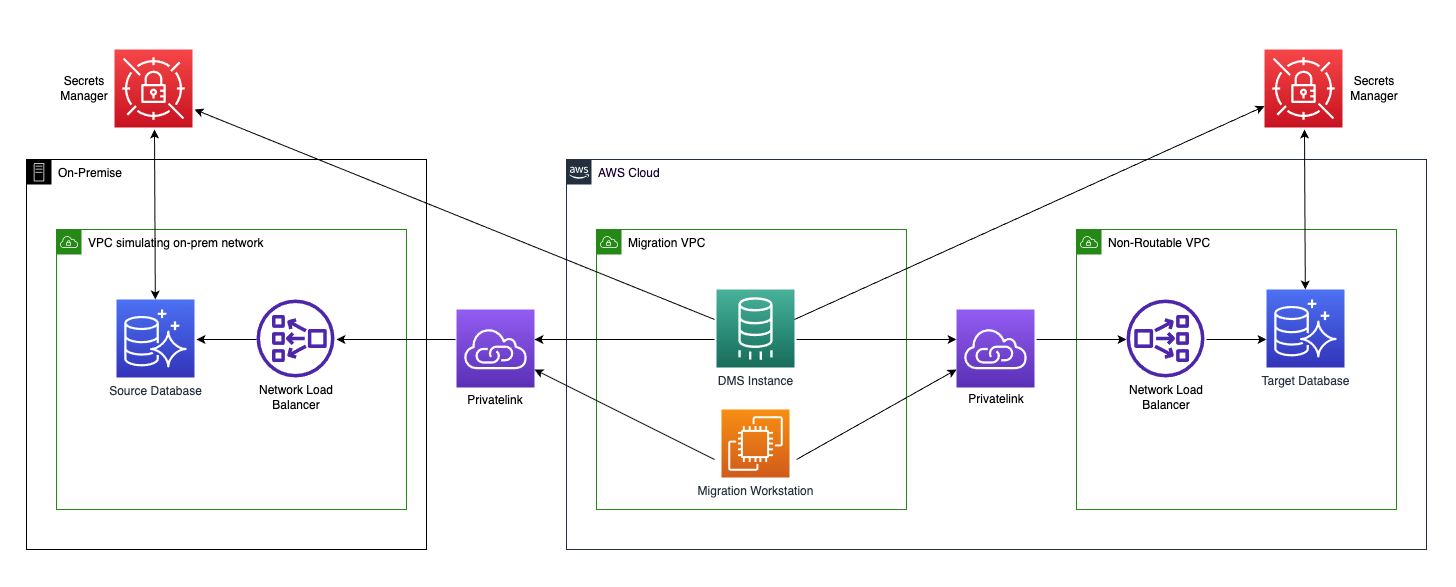
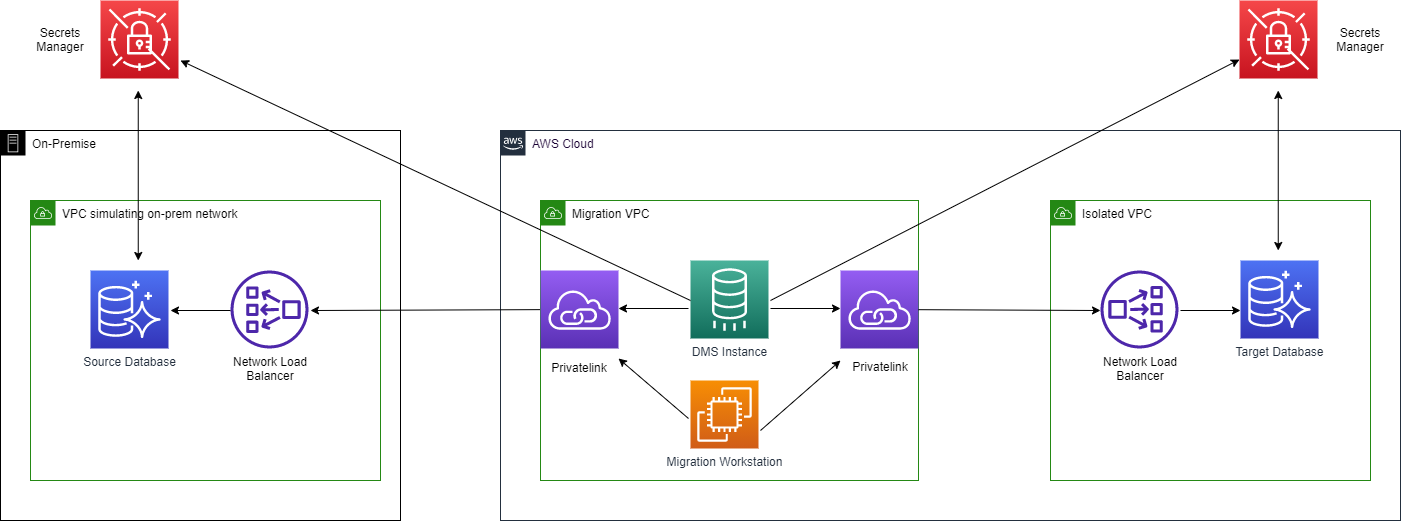
changed cidr

diff --git a/README.md b/README.md
@@ -1,4 +1,4 @@
-## Data migration between on premises and Aurora databases hosted in private/non-routable VPCs using DMS
+## Data migration between on premises and Aurora databases hosted in isolated VPCs using DMS
 
 This solution demonstrates how to configure different AWS services to simulate customer environments consisting of DMS instances hosted on VPCs without direct network connectivity to on-premises and target networks. The objective is not to provide a deep dive on the services used, to act as a guideline on how to leverage these services to achieve alternate ways of VPC connectivity. Finally, to validate the architecture, we provide SQL statements to create sample database objects and insert data, and AWS CLI commands to migrate objects and data using AWS DMS. The AWS services used in our proposed architecture are:
 - 3 VPCs (on-prem, DMS, and target)
